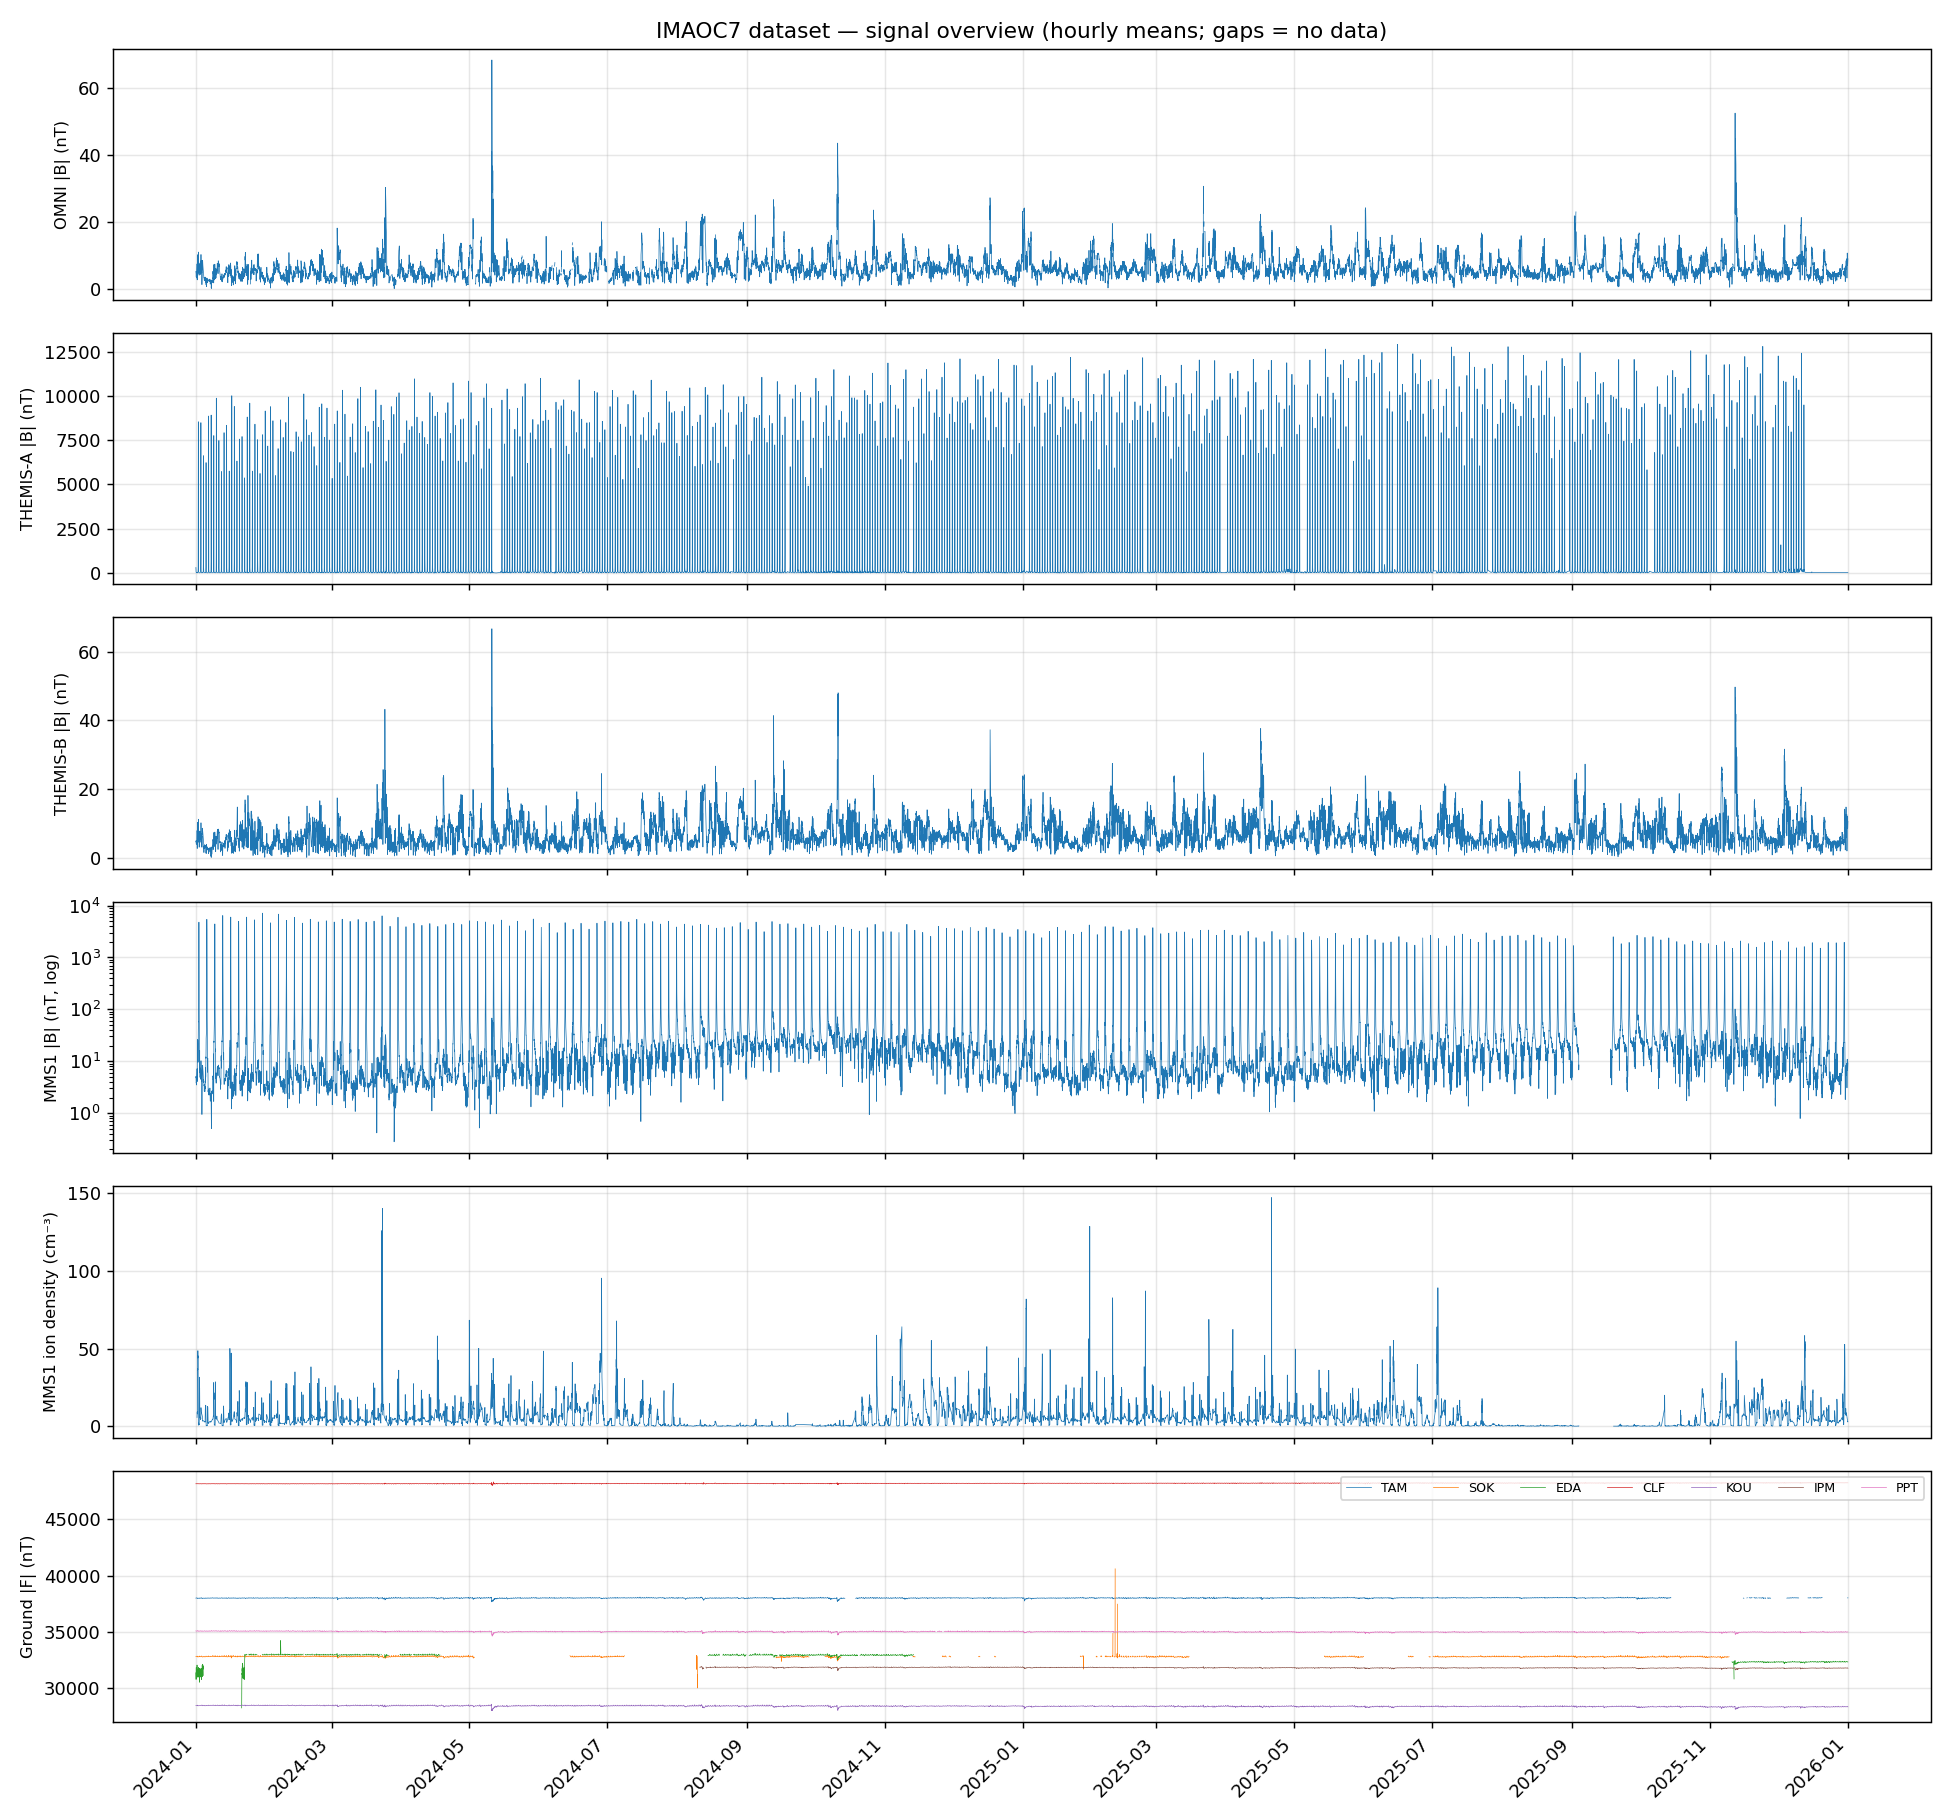
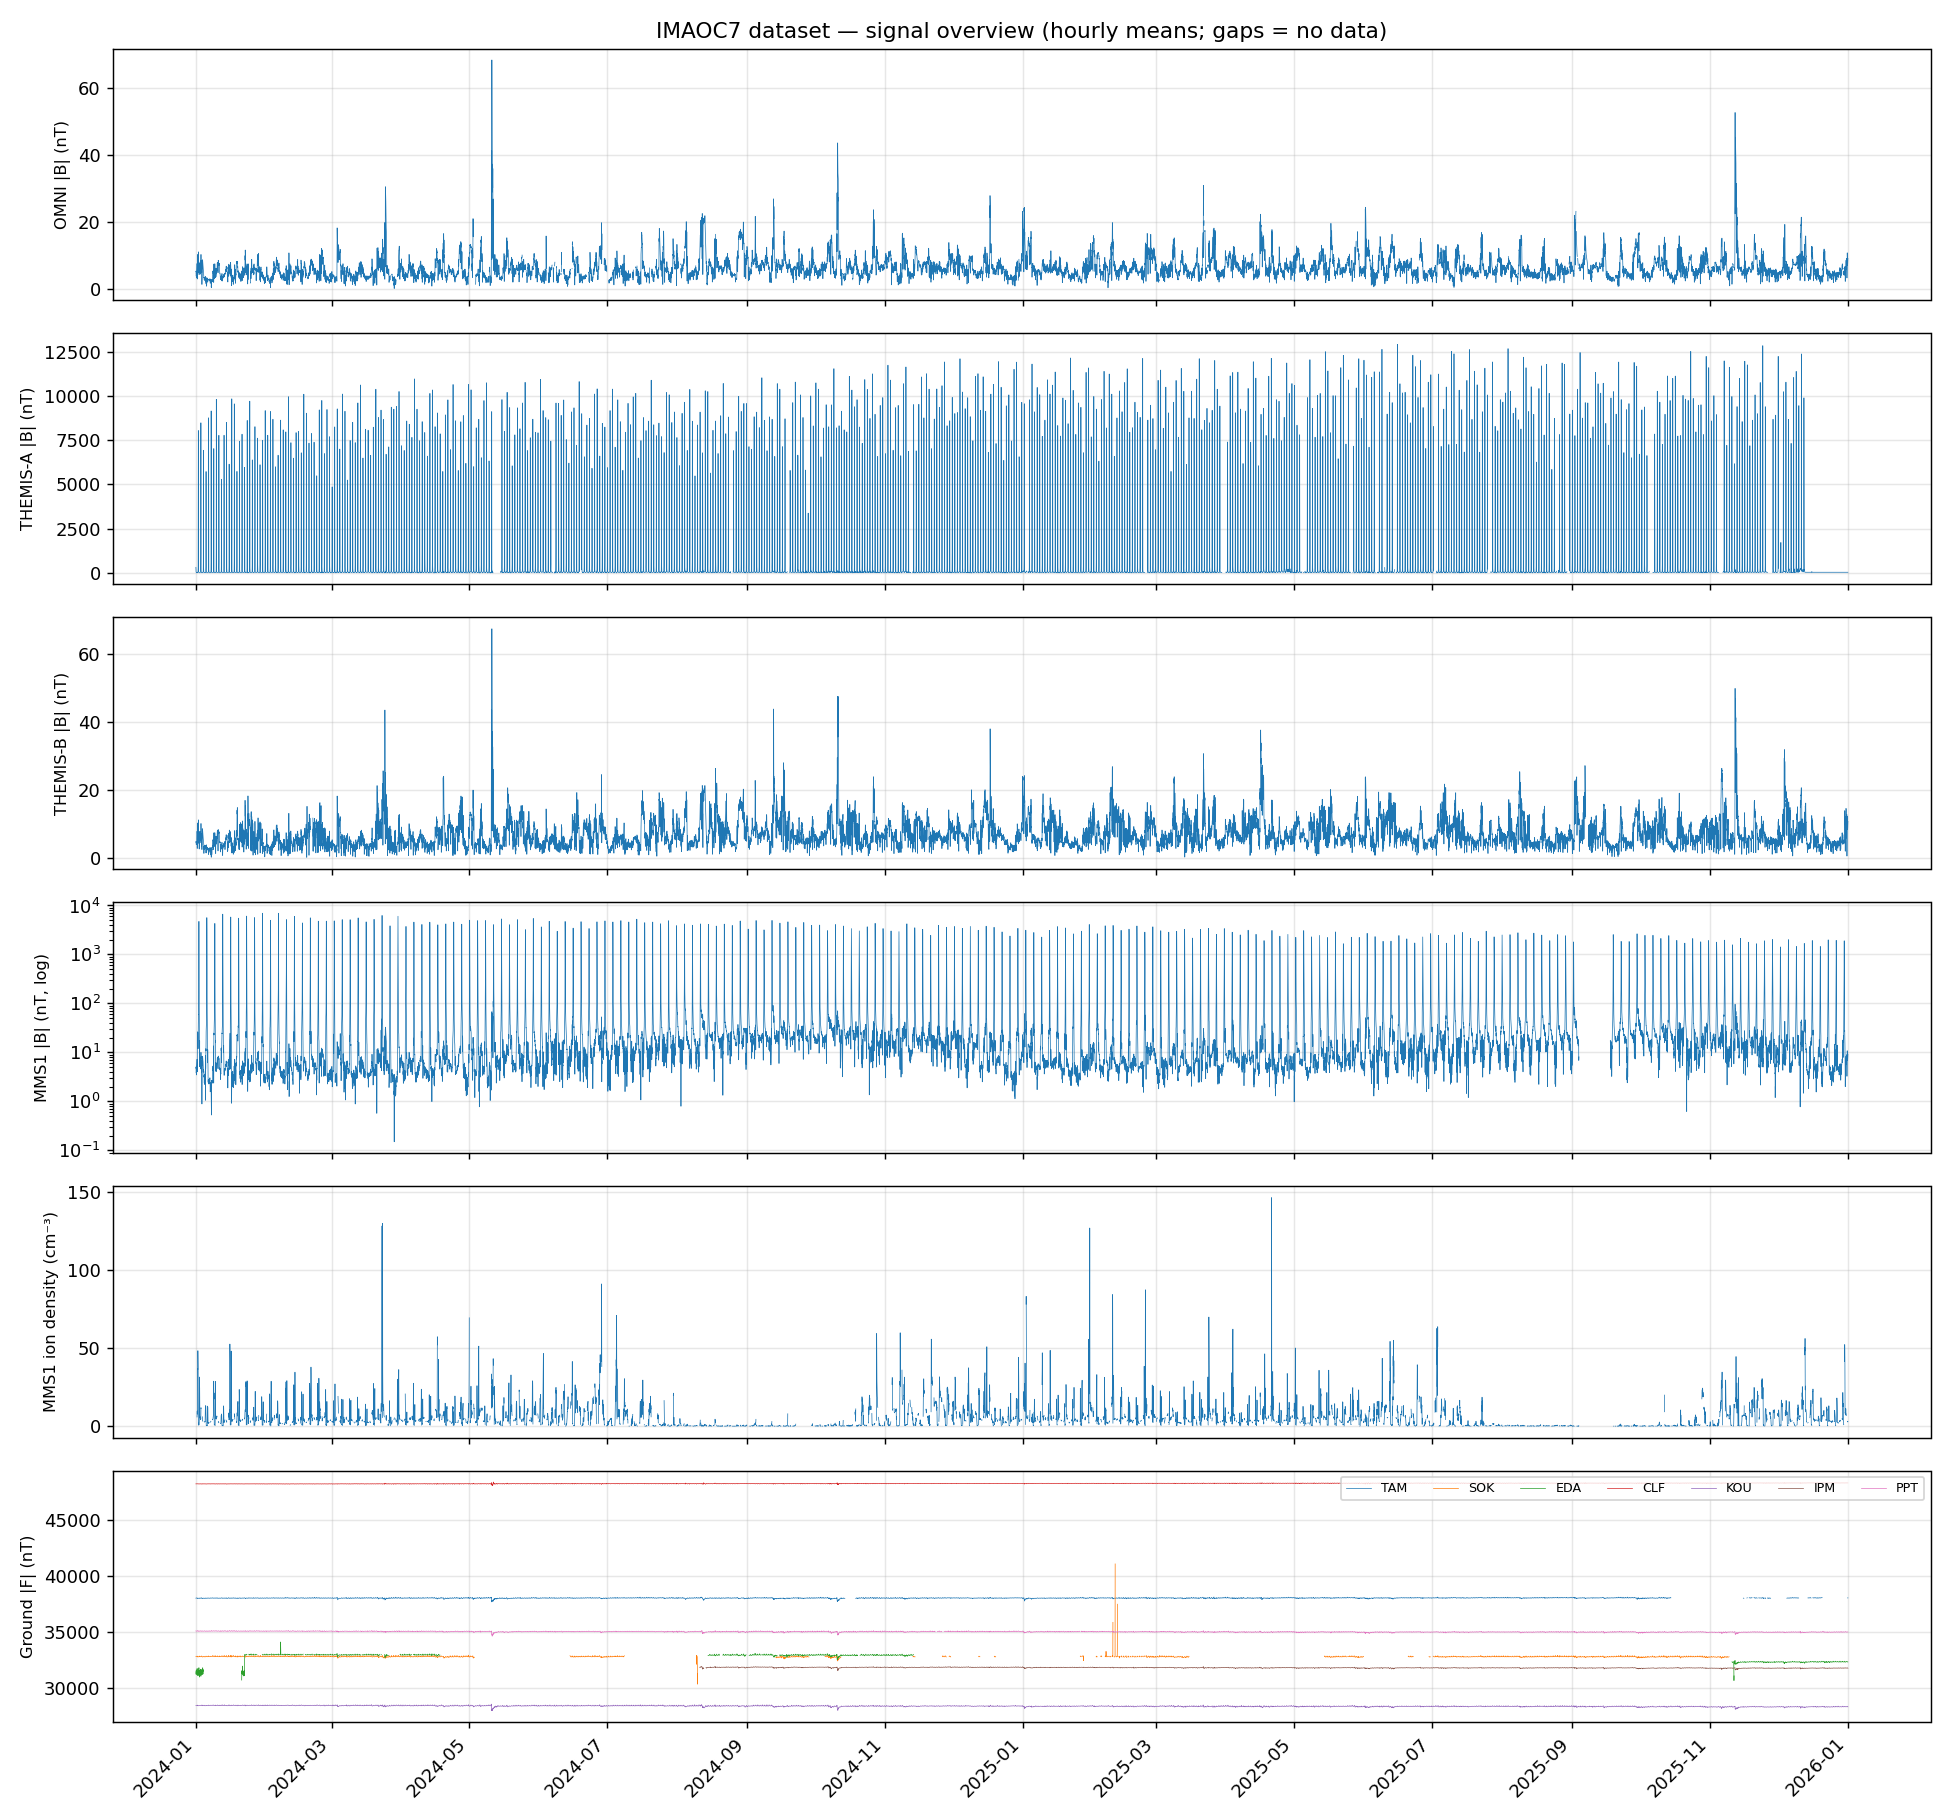
Resample by NaN-aware bin-averaging instead of interpolation
Interpolation-based resampling onto the 5-min grid mis-stated coverage in both
directions: it propagated scattered sub-bin gaps (over-counting missing data —
OMNI 1-min plasma showed 37% NaN when only ~16% of 5-min bins are truly empty)
and it bridged real multi-sample gaps with a linear ramp (hiding them — MMS1
DIS/FPI reported 2% NaN though the instrument was absent ~47% of the time).

dataset_tools.bin_average computes each 5-min value as the NaN-aware mean of the
samples in that bin, aligned to a common origin; an empty bin becomes NaN. It now
drives both the notebook (_resample_variable) and fetch_resampled_chunked, so every
source lands on the same grid and the assembly's interpolate_with_gaps is an identity
on aligned data (still masking the FGM chunk gap).

Effect: OMNI plasma 37%->16% NaN (real data recovered), OMNI B 7.8%->4.5%; MMS1 FPI
2%->47% and THEMIS-A ni 2%->12% (real gaps exposed, no longer fabricated); dense
fields (THEMIS-B, MMS1 B, ground) unchanged. Consolidated the per-source regenerate_*
scripts into a single regenerate.py.

Changed region(s): [[0.0923, 0.5538, 0.9538, 0.6154], [0.0, 0.5231, 0.0615, 0.6154]]

diff --git a/regenerate.py b/regenerate.py
@@ -1,69 +1,100 @@
-"""Regenerate mms1_b_gse (chunked) and rebuild the IMAOC7 dataset with NaN gaps.
+"""Regenerate every *_5min.pkl with NaN-aware 5-min bin-averaging, then rebuild
+the IMAOC7 dataset and overview plots.
+
+Bin-averaging (dataset_tools.bin_average) replaces interpolation-based resampling so
+that scattered sub-bin gaps are averaged away (not propagated) and real multi-sample
+gaps become NaN (not bridged by a ramp). Every source lands on the same global grid.
 
 Run: .venv/bin/python regenerate.py
 """
 import pickle
-import sys
 from glob import glob
-from pathlib import Path
 
 import numpy as np
 import pandas as pd
 
-import speasy as spz
+from speasy.products import Dataset
+from speasy.products.variable import merge
 from speasy.signal.resampling import generate_time_vector
 
-from dataset_tools import fetch_resampled_chunked, interpolate_with_gaps
+from dataset_tools import (bin_average, fetch_resampled_chunked, fetch_mms1_fgm_b_gse,
+                           interpolate_with_gaps, load_ground_mag)
+import make_overview_plots
 
 START, STOP, INTERVAL = "2024/01/01", "2026/01/01", 60. * 5
+GRID_ORIGIN = START
+AMDA_FGM_END = "2025-09-04"   # AMDA mms1_b_gse stops 2025-09-03; CDAWeb covers beyond
+GROUND_STATIONS = ("TAM", "SOK", "EDA", "CLF", "KOU", "IPM", "PPT")
 
 
 def log(msg):
     print(msg, flush=True)
 
 
-def regenerate_mms1_pickle():
-    log("[1/3] Re-fetching mms1_b_gse in 7-day chunks (FGM survey ~16 Hz)...")
-    b_gse = fetch_resampled_chunked("amda/mms1_b_gse", START, STOP, INTERVAL, chunk_days=7)
-    if b_gse is None or not len(b_gse.time):
-        log("ERROR: mms1_b_gse fetch returned nothing"); sys.exit(1)
-    log(f"      mms1_b_gse: N={len(b_gse.time)} "
-        f"range {b_gse.time.min()} -> {b_gse.time.max()}")
+def _bin_fetch(uid, chunk_days):
+    return fetch_resampled_chunked(uid, START, STOP, INTERVAL, chunk_days=chunk_days)
 
-    with open("mms1_5min.pkl", "rb") as f:
-        old = pickle.load(f)
-    kept = [v for v in old if v.name != "mms1_b_gse"]
-    log(f"      keeping from old pickle: {[v.name for v in kept]}")
 
-    with open("mms1_5min.pkl", "wb") as f:
-        pickle.dump([b_gse] + kept, f)
-    log("      wrote mms1_5min.pkl")
+def build_omni():
+    log("[OMNI] fetch 1-min, mask FILLVAL, 5-min bin-average...")
+    vs = [_bin_fetch(f"cda/OMNI_HRO2_1MIN/{p}", 30) for p in
+          ("proton_density", "Pressure", "T", "Vx", "Vy", "Vz", "BX_GSE", "BY_GSE", "BZ_GSE")]
+    pickle.dump(vs, open("omni_5min.pkl", "wb"))
+
+
+def build_themis(sc):
+    log(f"[THEMIS-{sc.upper()}] bin-average bs_gsm / v_i / n_i...")
+    vs = [_bin_fetch(f"amda/th{sc}_{p}", 30) for p in ("bs_gsm", "v_i", "n_i")]
+    pickle.dump(vs, open(f"themis_{sc}_5min.pkl", "wb"))
+
+
+def build_mms1():
+    log("[MMS1] FGM B (AMDA -> 2025-09 + CDAWeb tail) and FPI moments, bin-averaged...")
+    amda_b = fetch_resampled_chunked("amda/mms1_b_gse", START, AMDA_FGM_END, INTERVAL, chunk_days=7)
+    tail = fetch_mms1_fgm_b_gse("2025-09-03", STOP, INTERVAL, chunk_days=7)
+    tail = tail[amda_b.time.max() + np.timedelta64(1, "s"):]
+    b = merge([amda_b, tail])
+    log(f"       b_gse: {b.time.min()} -> {b.time.max()} (N={len(b.time)})")
+    fpi = [_bin_fetch("amda/mms1_dis_vgse", 30), _bin_fetch("amda/mms1_dis_ni", 30)]
+    pickle.dump([b] + fpi, open("mms1_5min.pkl", "wb"))
+
+
+def build_ground_mag():
+    log("[GROUND] fetch BCMT day-files (with retries) and 5-min bin-average...")
+    vs = []
+    for st in GROUND_STATIONS:
+        r = load_ground_mag(START, STOP, st)
+        if r is None or not len(r.time):
+            log(f"       {st}: NO DATA"); continue
+        vs.append(bin_average(r, INTERVAL, GRID_ORIGIN))
+        log(f"       {st}: ok")
+    pickle.dump(vs, open("ground_mag_5min.pkl", "wb"))
 
 
 def rebuild_dataset():
-    log("[2/3] Rebuilding combined dataframe with NaN-gap interpolation...")
+    log("[ASSEMBLE] align every source onto the common 5-min grid...")
     time_vector = generate_time_vector(START, STOP, INTERVAL)
     df = pd.DataFrame()
     for fname in glob("*_5min.pkl"):
-        with open(fname, "rb") as f:
-            dataset = pickle.load(f)
-        for v in dataset:
+        for v in pickle.load(open(fname, "rb")):
             vi = interpolate_with_gaps(time_vector, v)
             _df = vi.to_dataframe()
             if p := vi.name:
                 _df.columns = [f"{p}_{l}" for l in _df.columns]
             df = pd.concat([df, _df], axis=1)
-        log(f"      merged {fname}")
-
-    log("[3/3] Writing IMAOC7_summer_school_dataset.pkl / .csv ...")
+        log(f"       merged {fname}")
     df.to_pickle("IMAOC7_summer_school_dataset.pkl")
     df.to_csv("IMAOC7_summer_school_dataset.csv")
-    mms1_b = [c for c in df.columns if c.startswith("mms1_b_gse")]
-    log("      mms1_b_gse NaN counts: "
-        + ", ".join(f"{c}={int(df[c].isna().sum())}" for c in mms1_b))
-    log("      done.")
+    log("       wrote IMAOC7_summer_school_dataset.{pkl,csv}")
 
 
 if __name__ == "__main__":
-    regenerate_mms1_pickle()
+    build_omni()
+    build_themis("a")
+    build_themis("b")
+    build_mms1()
+    build_ground_mag()
     rebuild_dataset()
+    log("[PLOTS] regenerating overview plots...")
+    make_overview_plots.main()
+    log("done.")

diff --git a/dataset_tools.py b/dataset_tools.py
@@ -12,7 +12,7 @@ import speasy as spz
 from speasy.core import AnyDateTimeType, make_utc_datetime
 from speasy.products import SpeasyVariable, DataContainer, VariableTimeAxis
 from speasy.products.variable import merge
-from speasy.signal.resampling import resample as spz_resample, interpolate as spz_interpolate
+from speasy.signal.resampling import interpolate as spz_interpolate
 
 
 def interpolate_with_gaps(time_vector: np.ndarray, var: SpeasyVariable,
@@ -38,6 +38,29 @@ def interpolate_with_gaps(time_vector: np.ndarray, var: SpeasyVariable,
     return out
 
 
+def bin_average(var: SpeasyVariable, interval_s: float,
+                origin: AnyDateTimeType) -> SpeasyVariable:
+    """Downsample to a regular ``interval_s`` grid by the NaN-aware mean of the samples
+    in each ``[t, t+interval)`` bin, aligned to ``origin``. An empty bin becomes NaN.
+
+    Unlike interpolation-based resampling this neither propagates scattered short gaps
+    (which would over-count missing data, e.g. OMNI's 1-min plasma holes) nor bridges
+    real multi-sample gaps with a ramp (which would hide them, e.g. MMS FPI orbit gaps).
+    Bins are aligned to ``origin`` so every source lands on the same global grid.
+    """
+    times = pd.to_datetime(var.time)
+    origin_ts = pd.Timestamp(origin)
+    if origin_ts.tzinfo is not None:          # index is tz-naive UTC; match it
+        origin_ts = origin_ts.tz_localize(None)
+    df = pd.DataFrame(np.asarray(var.values, dtype=float), index=times)
+    binned = df.resample(f"{int(interval_s)}s", origin=origin_ts).mean()
+    return SpeasyVariable(
+        axes=[VariableTimeAxis(binned.index.values.astype("datetime64[ns]"))],
+        values=DataContainer(binned.values, name=var.name),
+        columns=list(var.columns),
+    )
+
+
 def fetch_resampled_chunked(uid: str, start: AnyDateTimeType, stop: AnyDateTimeType,
                             interval: float, chunk_days: int = 7,
                             mask_fill: bool = True) -> SpeasyVariable | None:
@@ -57,7 +80,7 @@ def fetch_resampled_chunked(uid: str, start: AnyDateTimeType, stop: AnyDateTimeT
         if r is not None and len(r.time):
             if mask_fill:
                 r = r.replace_fillval_by_nan()
-            chunks.append(spz_resample(r, interval))
+            chunks.append(bin_average(r, interval, start))
         t = t_next
     return merge(chunks) if chunks else None
 

diff --git a/test_dataset_tools.py b/test_dataset_tools.py
@@ -55,6 +55,25 @@ def test_interpolate_with_gaps_nans_internal_gap():
     assert np.isfinite(out.values[on_data]).all()   # real data preserved
 
 
+def test_bin_average_nan_aware_and_grid_aligned():
+    from dataset_tools import bin_average
+    times = np.arange("2024-01-01", "2024-01-01T00:20", np.timedelta64(1, "m"),
+                      dtype="datetime64[ns]")  # 20 one-minute samples -> four 5-min bins
+    vals = np.arange(20, dtype=float)[:, None]
+    vals[2] = np.nan        # scattered hole in bin 0 -> averaged away, bin stays valid
+    vals[5:10] = np.nan     # bin 1 entirely empty -> NaN, not bridged
+    var = SpeasyVariable(axes=[VariableTimeAxis(times)],
+                         values=DataContainer(vals), columns=["x"])
+    out = bin_average(var, 300., "2024-01-01")
+    o = np.asarray(out.values).flatten()
+
+    assert len(o) == 4
+    assert np.isclose(o[0], np.mean([0, 1, 3, 4]))   # NaN-aware mean
+    assert np.isnan(o[1])                            # empty bin stays NaN
+    assert np.isclose(o[2], np.mean([10, 11, 12, 13, 14]))
+    assert str(out.time[0]) == "2024-01-01T00:00:00.000000000"  # grid-aligned
+
+
 def test_replace_fillval_masks_sentinels():
     # OMNI CDFs declare FILLVAL (e.g. 9999.99) that must become NaN, not a real number.
     times = np.arange("2024-01-01", "2024-01-01T05", np.timedelta64(1, "h"),
